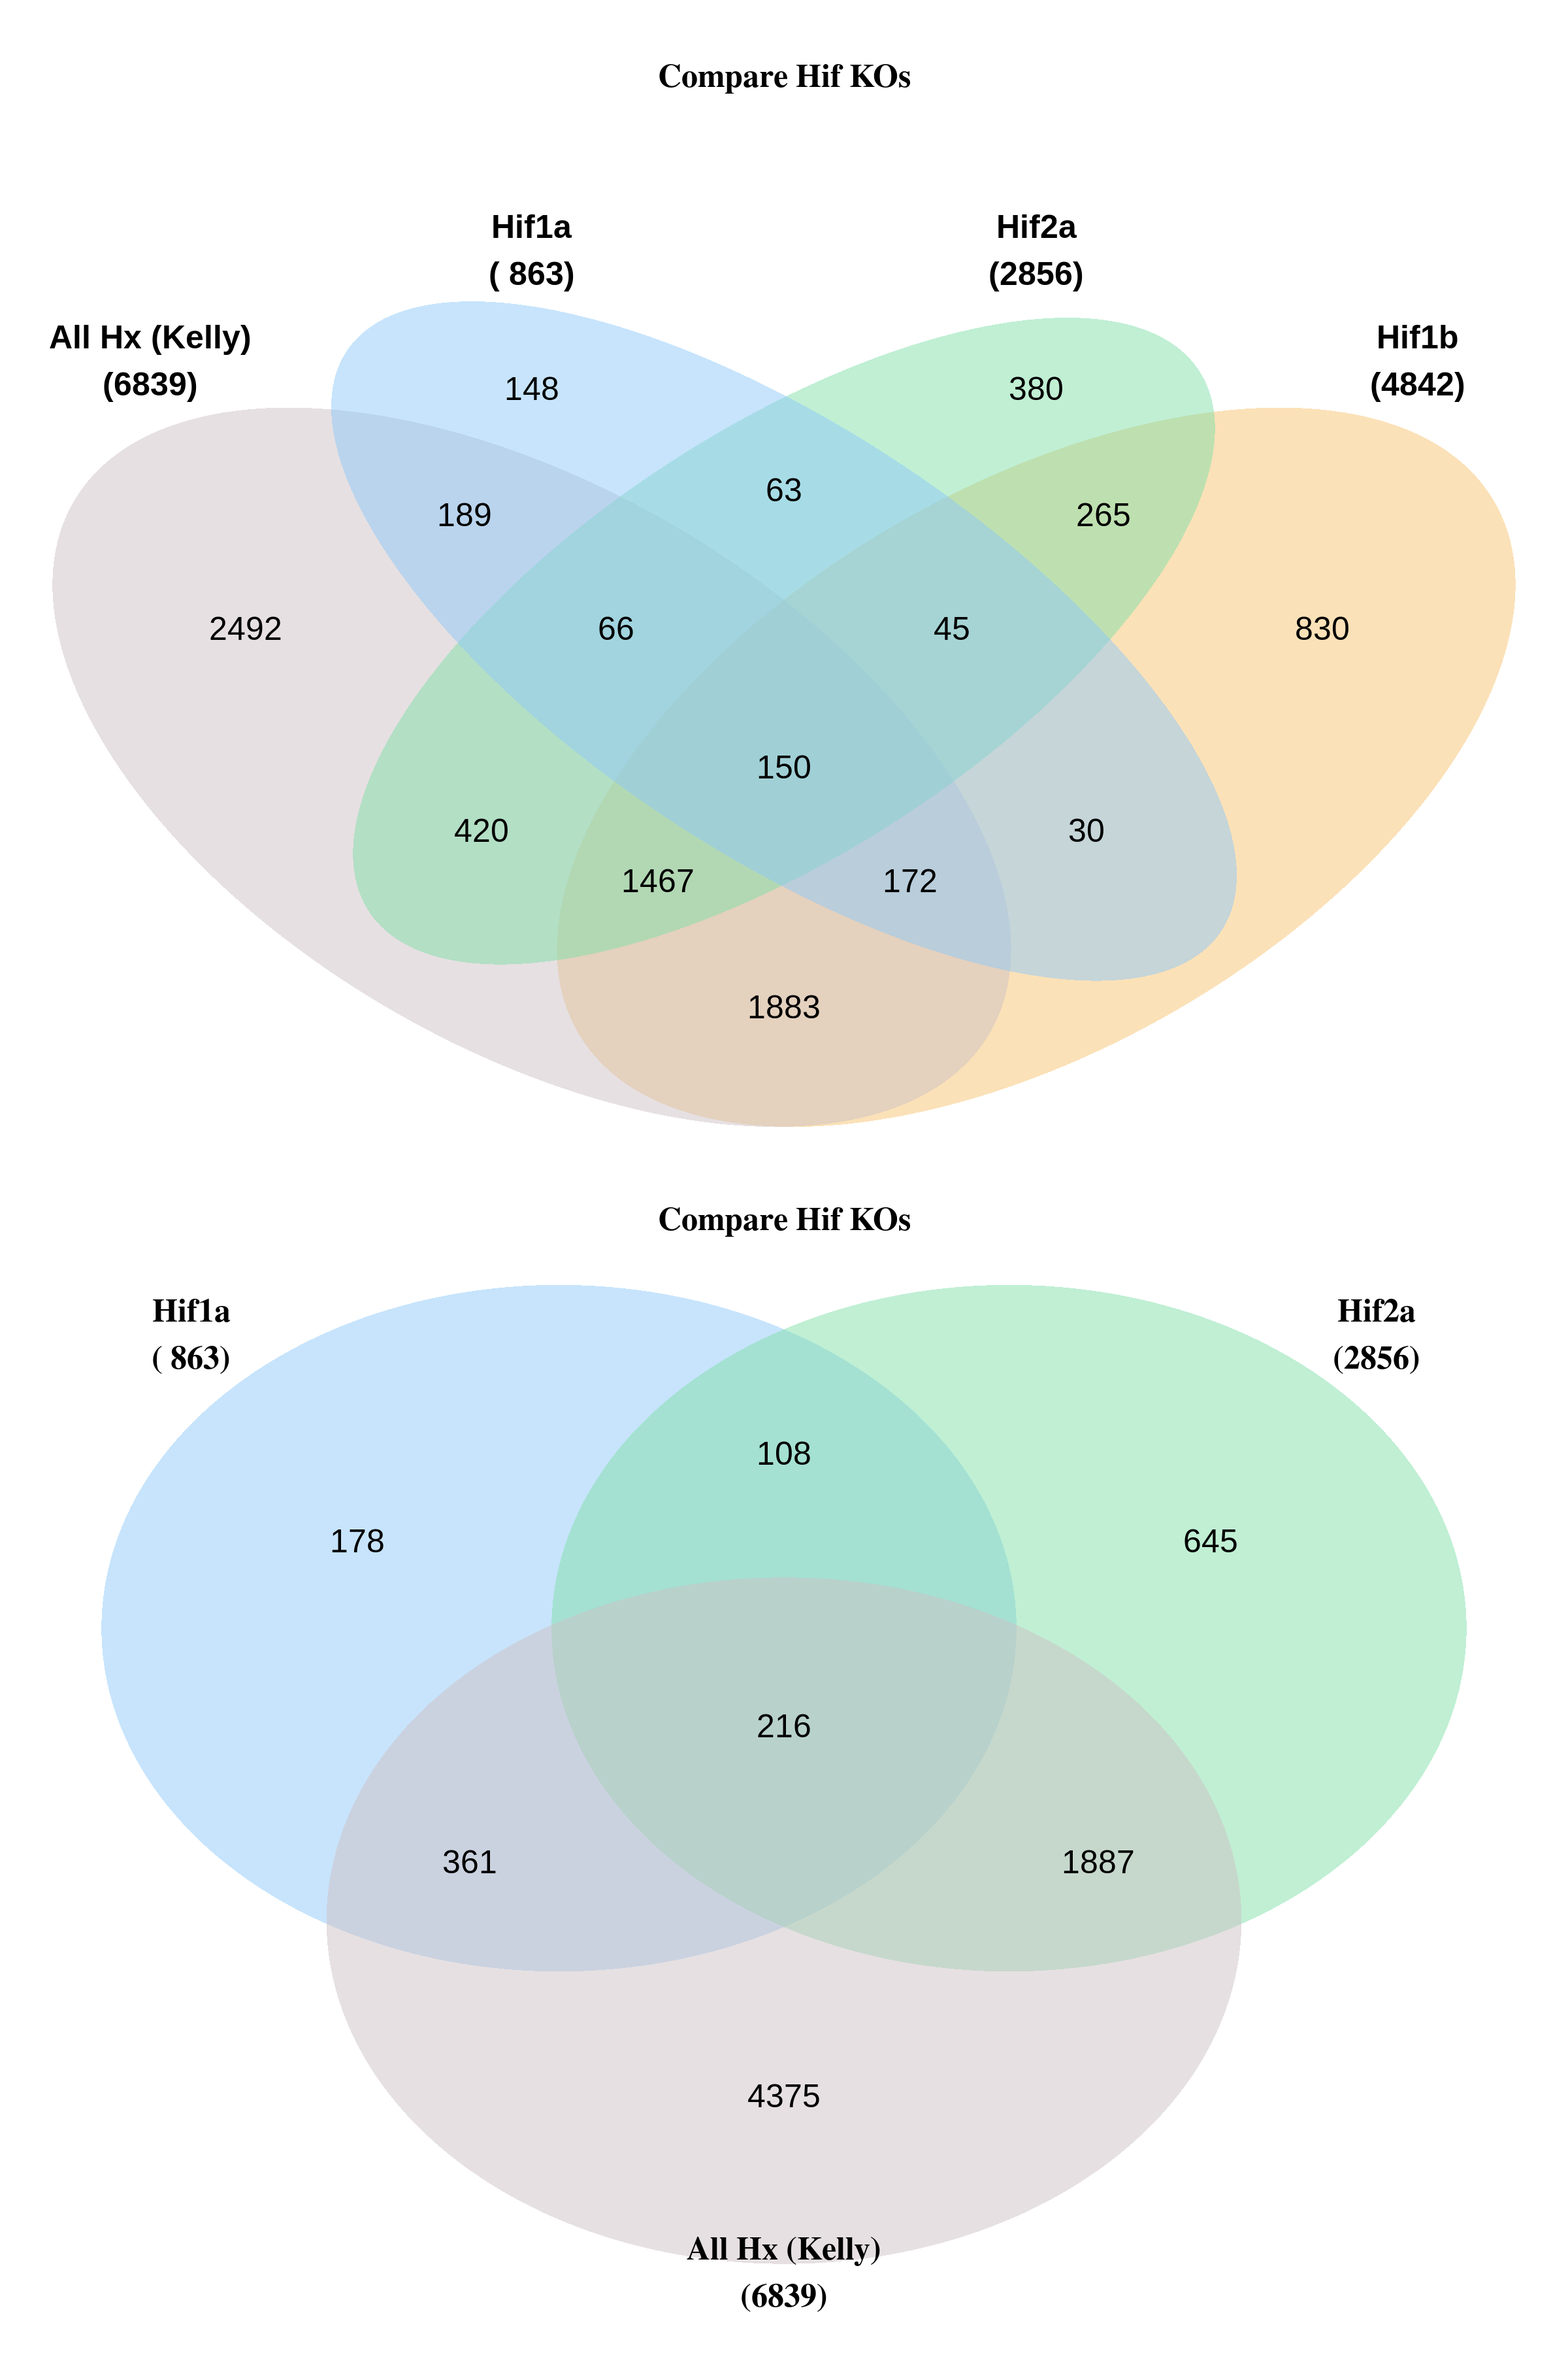
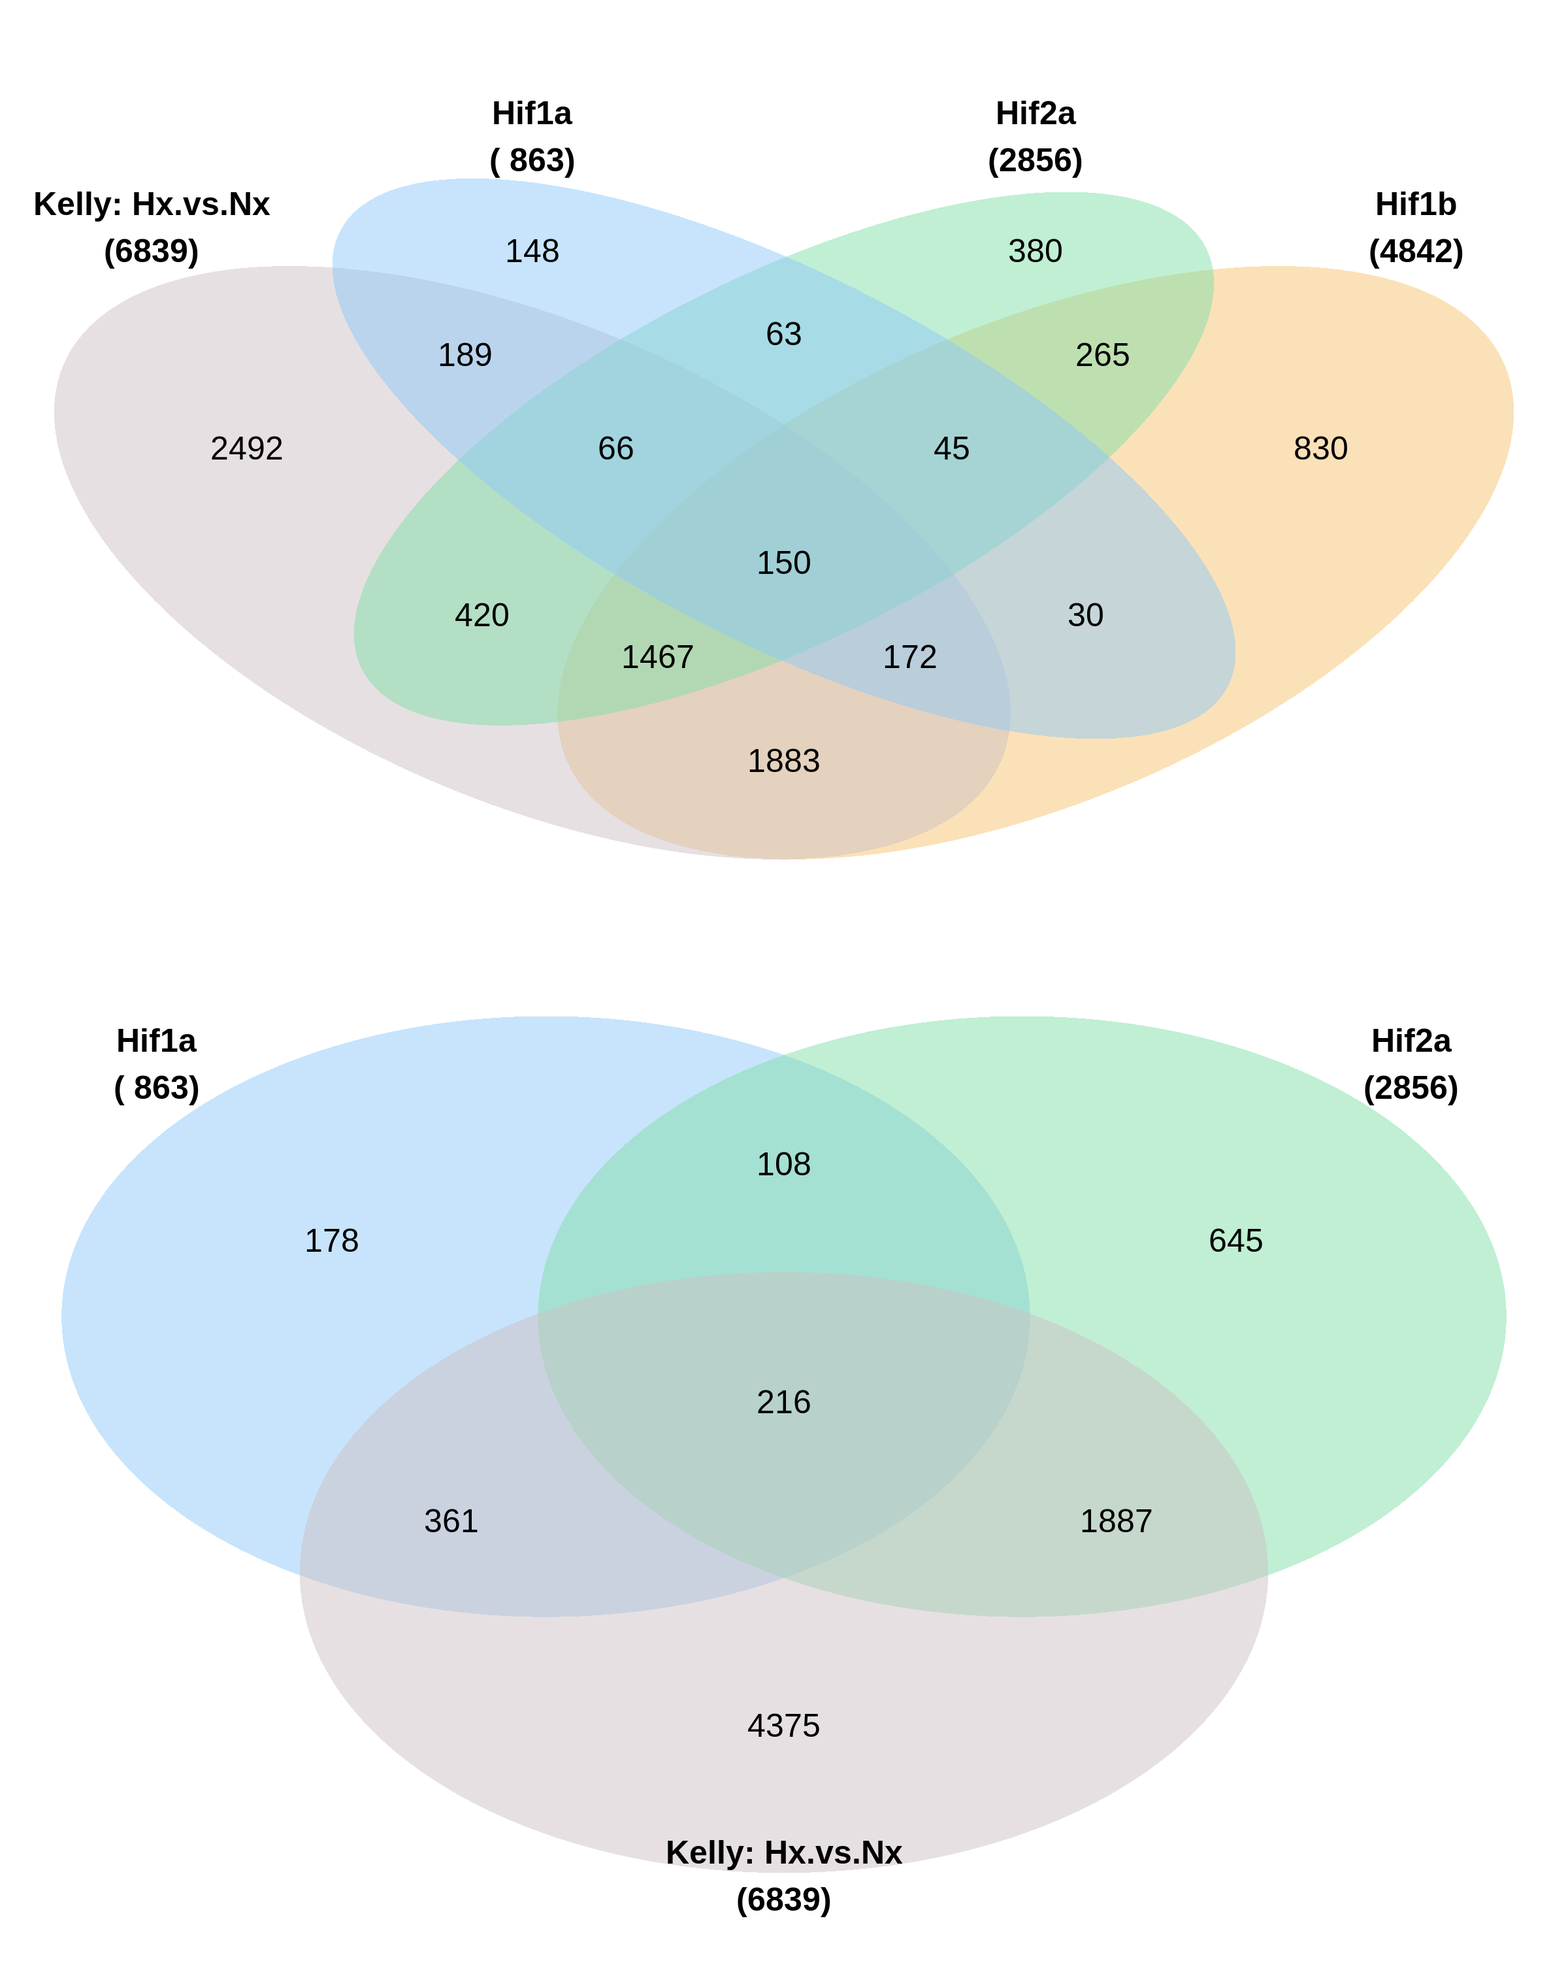
figure fixes

diff --git a/4_manuscript/Readme.md b/4_manuscript/Readme.md
@@ -155,8 +155,9 @@ volcano_hif1a <- volcano_sk3(n="Hif1a.Hx.vs.Nx",n2="Hif1aHxNx.vs.KellyHxNx",col=
 volcano_hif2a <- volcano_sk3(n="Hif2a.Hx.vs.Nx",n2="Hif2aHxNx.vs.KellyHxNx",col=darken("forestgreen",0.2), celline="HIF2A")
 volcano_hif1b <- volcano_sk3(n="Hif1b.Hx.vs.Nx",n2="Hif1bHxNx.vs.KellyHxNx",col=colors[8], celline="HIF1B")
 
-(volcano_Kelly+volcano_hif1b) / (volcano_hif1a+volcano_hif2a) + plot_layout(guides = "collect", axes="collect", axis_titles="collect") & 
-  theme(legend.position = 'bottom')
+(volcano_Kelly+volcano_hif1b + plot_layout(guides = "collect", axes="collect", axis_titles="collect") ) / 
+  (volcano_hif1a+volcano_hif2a + plot_layout(guides = "collect", axes="collect", axis_titles="collect") ) & 
+  theme(legend.position = 'right')
 ```
 
 ![](Readme_files/figure-gfm/2_volcanos_plot-1.png)<!-- -->
@@ -167,19 +168,18 @@ volcano_hif1b <- volcano_sk3(n="Hif1b.Hx.vs.Nx",n2="Hif1bHxNx.vs.KellyHxNx",col=
 deg_genes_list <- lapply(results_list,topgenes_f) %>%  lapply(.,rownames) 
 names(deg_genes_list) <- paste("deg",names(deg_genes_list),sep="_")
 
-main_degs <- c(list("All Hx (Kelly)" = deg_genes_list[["deg_Kelly.Hx.vs.Nx"]],
+main_degs <- c(list("Kelly: Hx.vs.Nx" = deg_genes_list[["deg_Kelly.Hx.vs.Nx"]],
                      "Hif1b" = deg_genes_list[["deg_Hif1bHxNx.vs.KellyHxNx"]],
                      "Hif1a" = deg_genes_list[["deg_Hif1aHxNx.vs.KellyHxNx"]],
                      "Hif2a" = deg_genes_list[["deg_Hif2aHxNx.vs.KellyHxNx"]]                                         ))
 
 plt1 <- venn.diagram(
     x = main_degs,
-    main = "Compare Hif KOs", main.fontface = "bold",
     fill = colors[c(1,7,3,5)],
-
+    main.fontface = "bold",
     fontfamily ="Arial",
     category.names = paste(names(main_degs),"\n(",main_degs %>% summary() %>% .[c(1:length(main_degs))],")",sep=""),
-    force.unique = TRUE, na = "remove",
+    force.unique = TRUE, na = "remove", total.population = TRUE,
     filename = NULL,
     lwd = 2,
     lty = 'blank',
@@ -189,20 +189,20 @@ plt1 <- venn.diagram(
 main_degs <- main_degs[c(3,4,1)]
 plt2 <- venn.diagram(
     x = main_degs,
-    main = "Compare Hif KOs", main.fontface = "bold",
     fill = colors[c(3,5,1)],
-    
-    category.names = paste(names(main_degs),"\n(",main_degs %>% summary() %>% .[c(1:length(main_degs))],")",sep=""),
+    main.fontface = "bold",
     fontfamily ="Arial",
+    category.names = paste(names(main_degs),"\n(",main_degs %>% summary() %>% .[c(1:length(main_degs))],")",sep=""),
     force.unique = TRUE, na = "remove", total.population = TRUE,
-
     filename = NULL,
     lwd = 2,
     lty = 'blank',
-    cat.fontface = "bold"
-    )
+    cat.fontface = "bold",
+    cat.fontfamily = "arial")
     
-  
+#     main = "Compare Hif KOs",
+
+
 patchwork::wrap_elements(plt1) / patchwork::wrap_elements(plt2)
 ```
 
